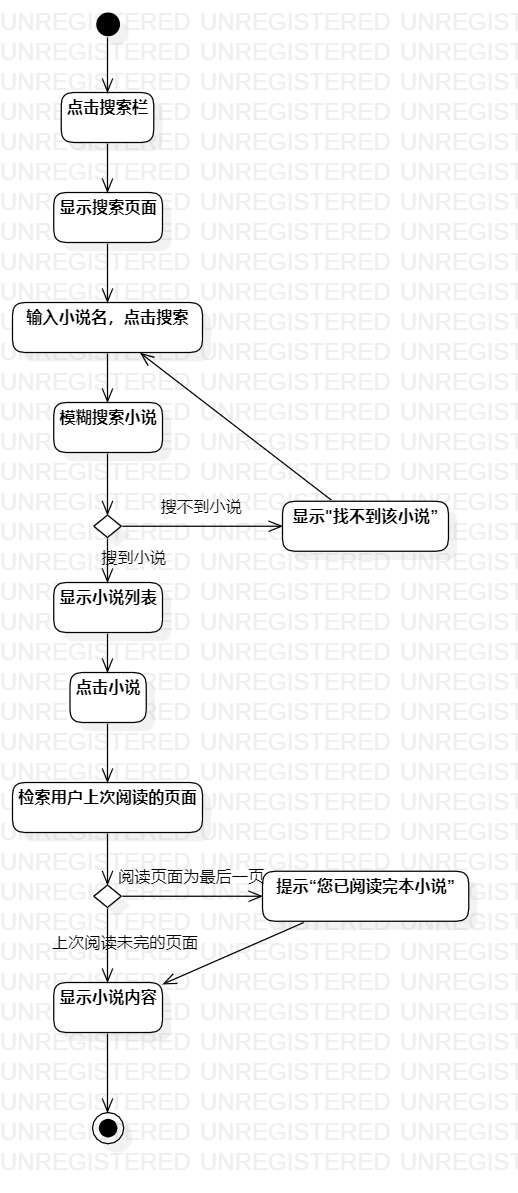
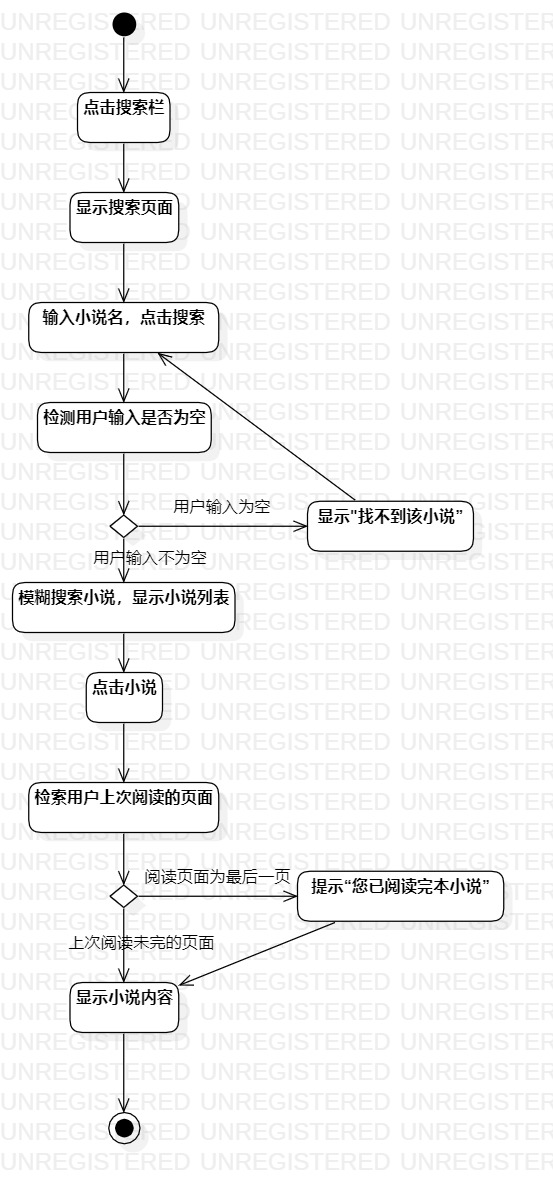
修改实验二，完善实验三活动图

diff --git a/students/1714080902622/lab2.md b/students/1714080902622/lab2.md
@@ -40,11 +40,11 @@
 基本流程  | 1. 用户点击搜索栏 ；  |*用例执行成功的步骤*    
 ~| 2. 系统显示搜索页面；  |   
 ~| 3. 用户输入小说名，点击搜索；  |   
-~| 4. 系统模糊检索小说，显示小说列表；  |   
+~| 4. 系统检测用户输入不为空，模糊检索小说，显示小说列表；  |   
 ~| 5. 用户点击小说；  |   
 ~| 6. 系统检索用户上次阅读到的页面，显示小说内容；  |    
-扩展流程  | 4.1 系统查找不到小说 **显示“找不到小说”**；  |*用例执行失败*    
-~| 6.1用户已阅读到最后**提示“您已阅读完本小说”**；  |*用例执行失败*    
+扩展流程  | 4.1 系统检测用户输入为空 **“显示搜索内容不能为空”**；  |*用例执行失败*    
+~| 6.1用户已阅读到最后**提示“您已阅读完本小说”**；  |
 
 
 ## 表2：收藏小说用例规约  
